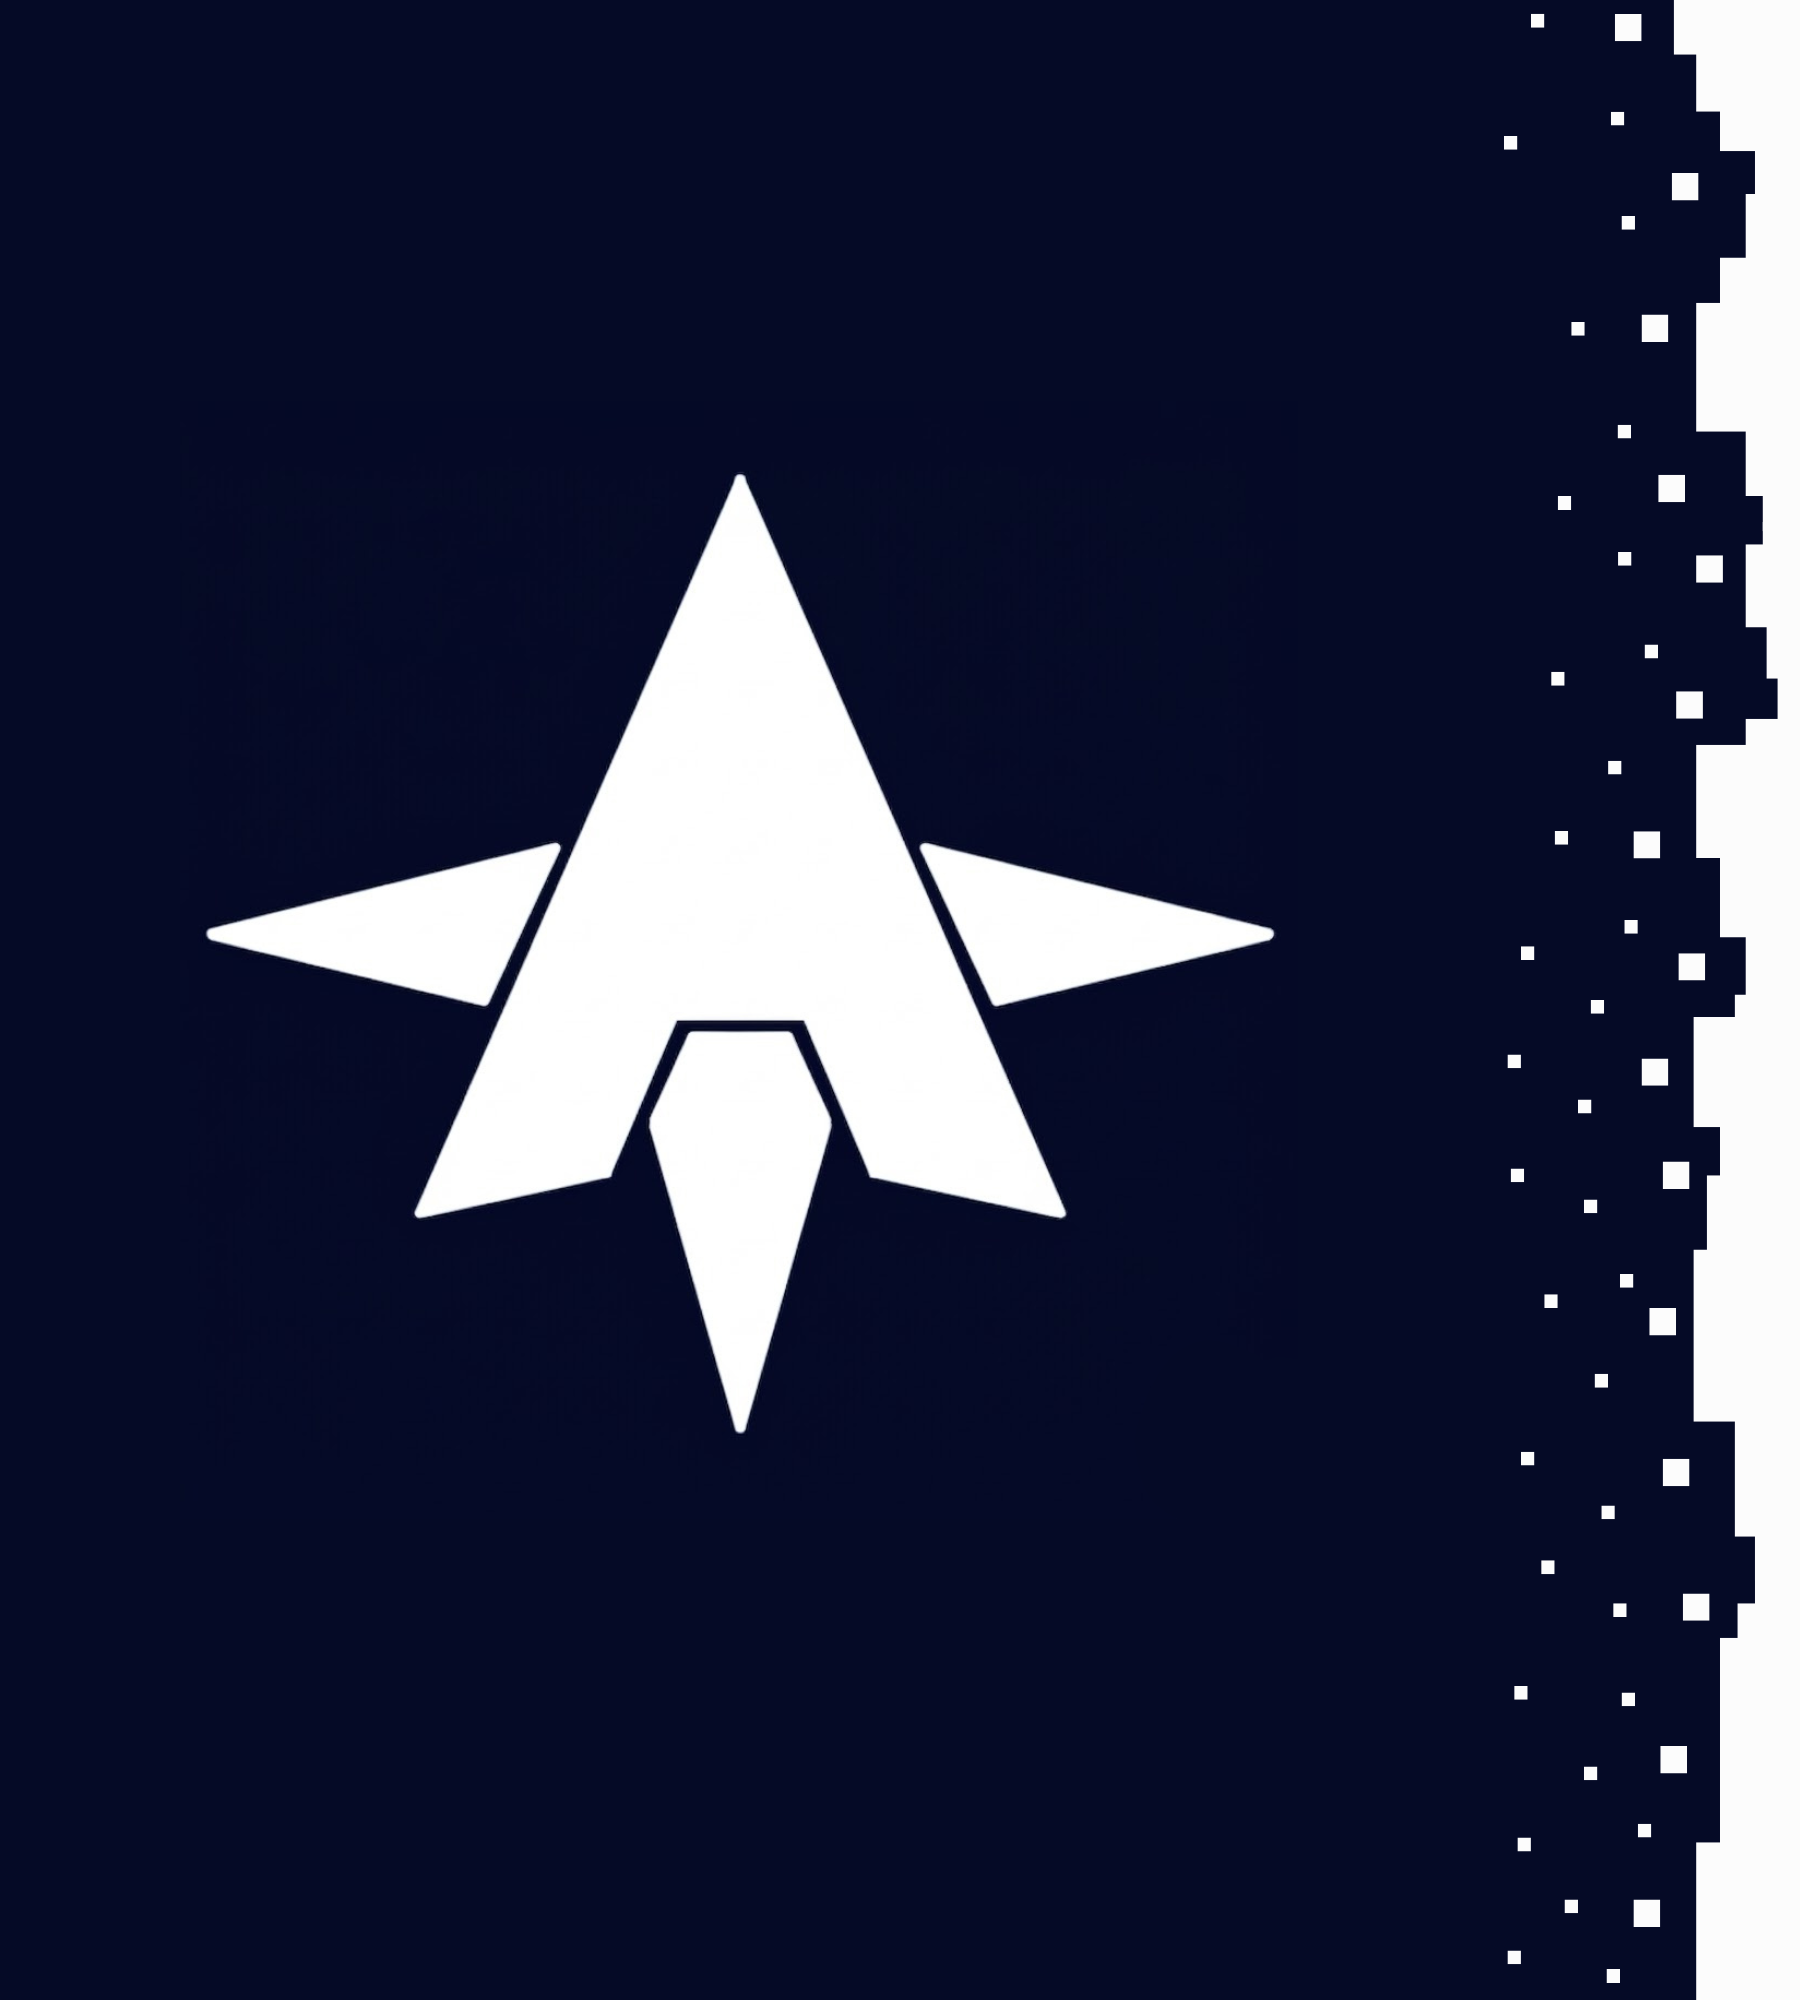
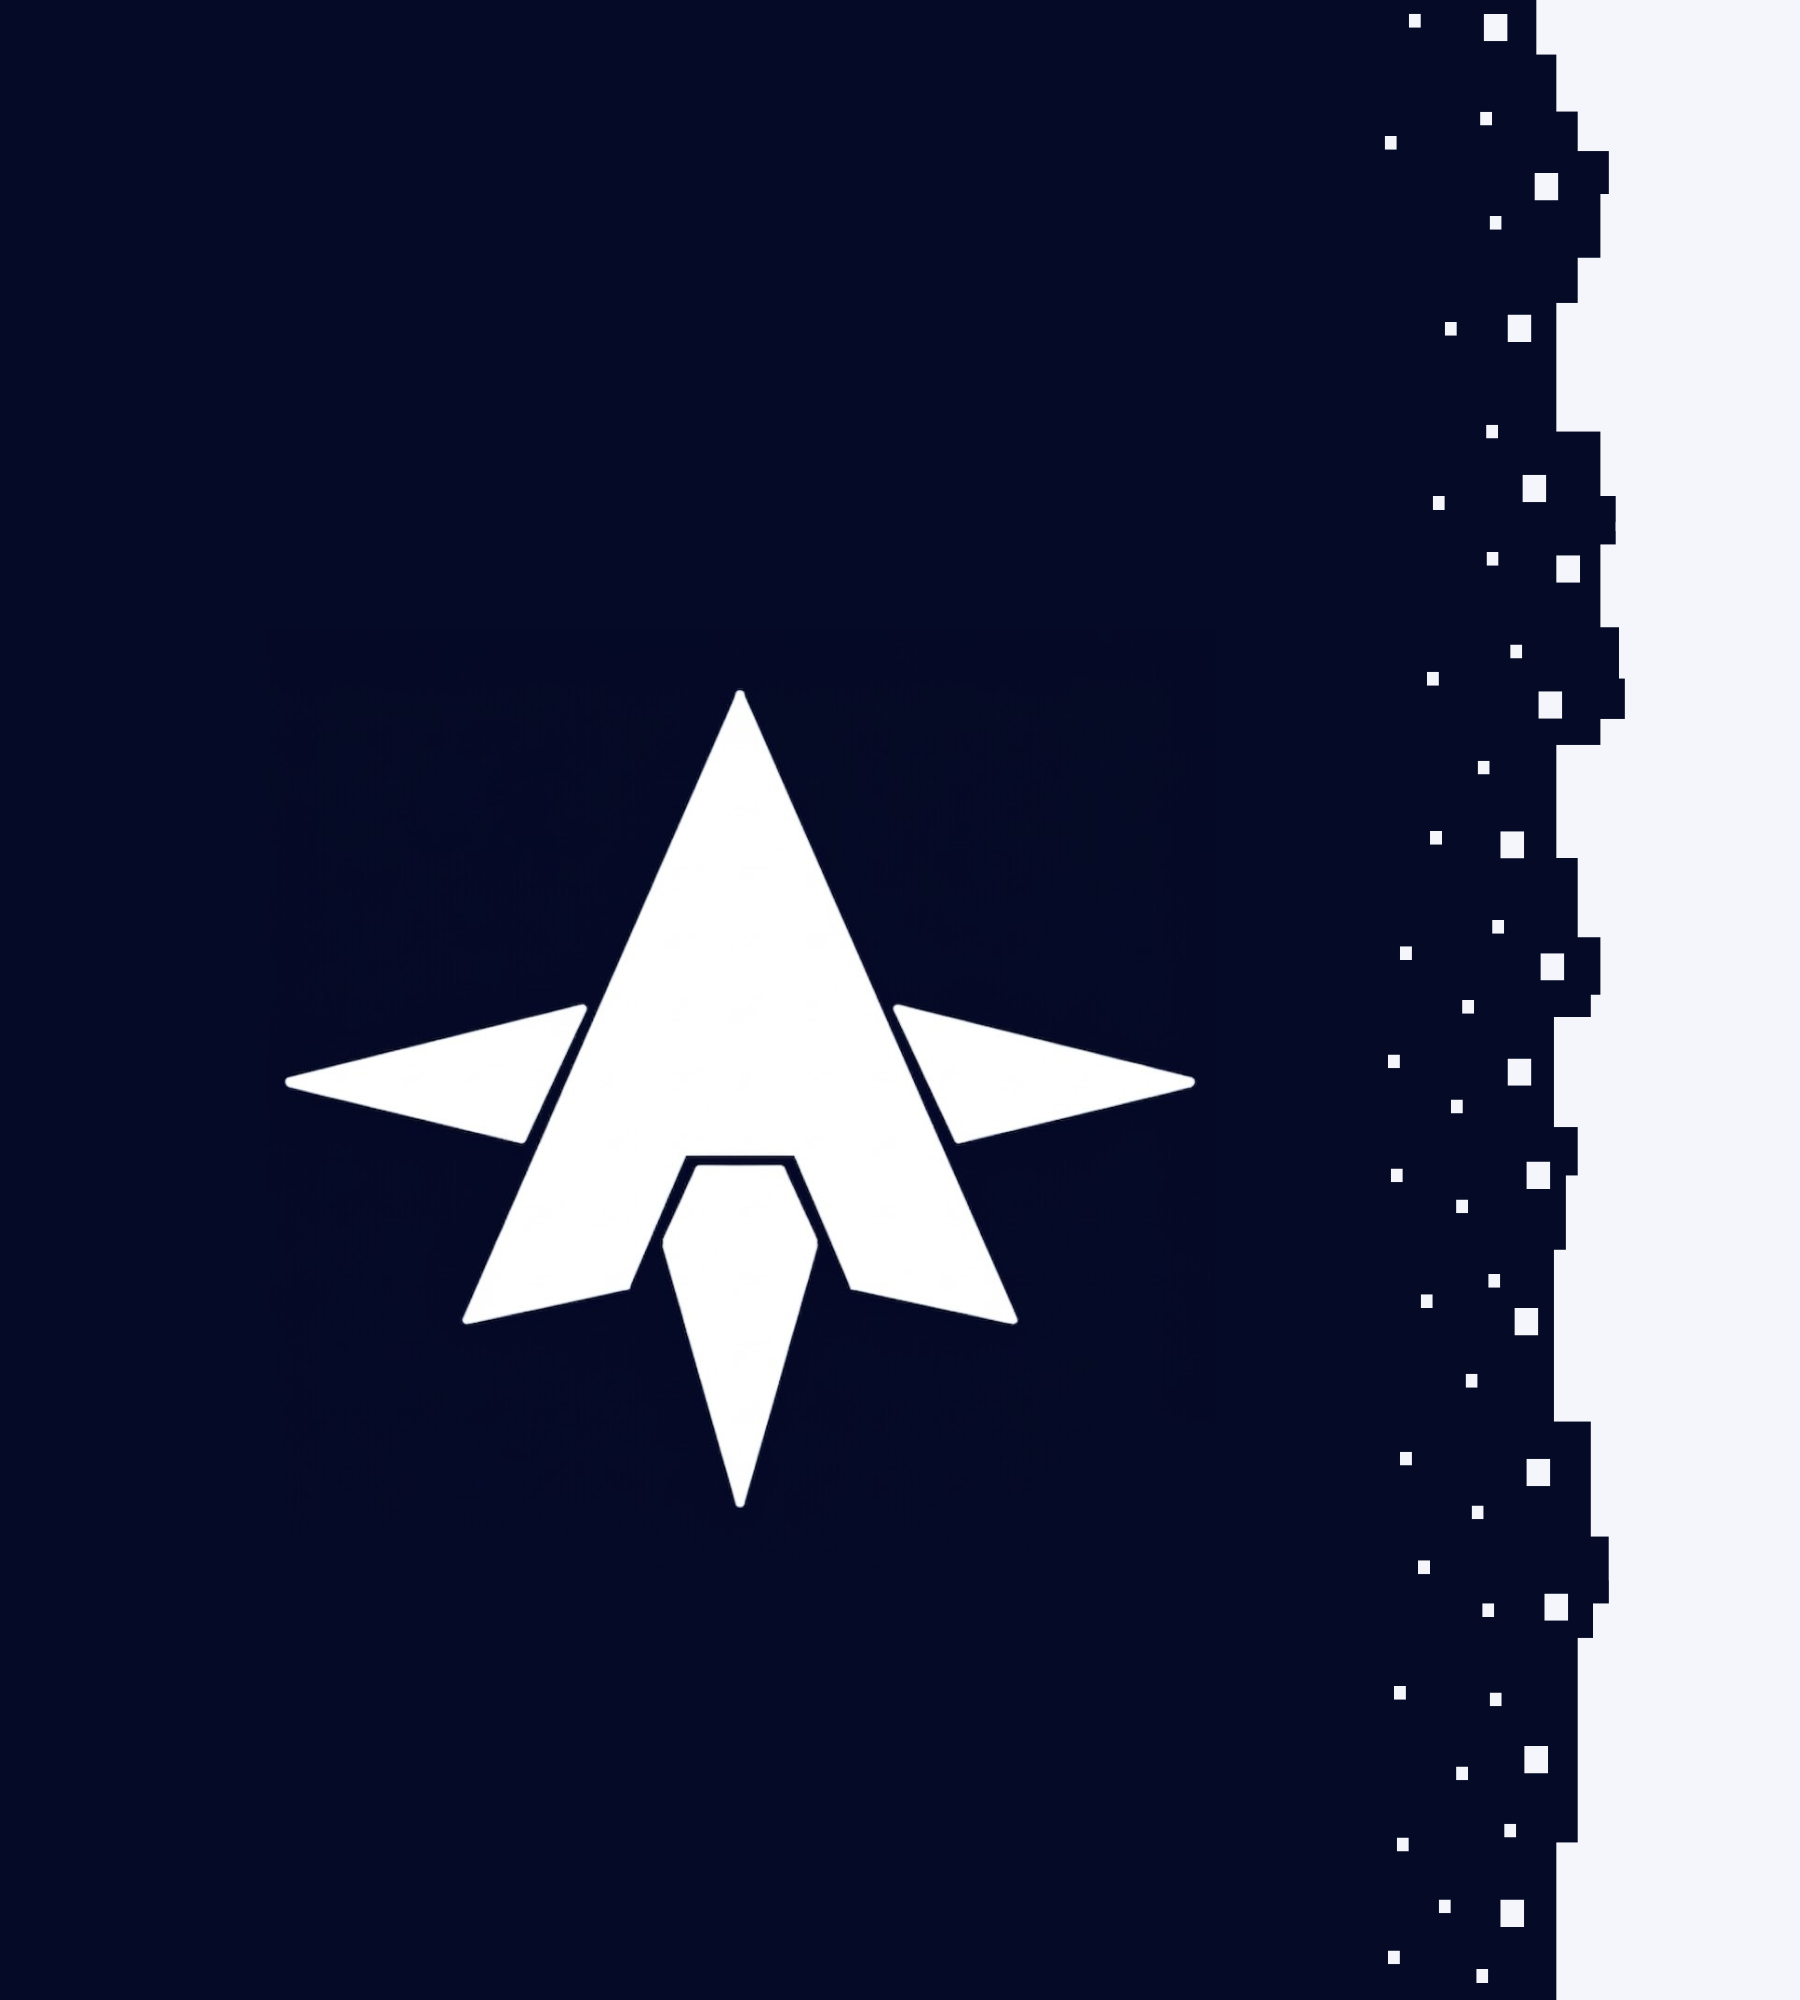
Alterações no css para melhorar a imagem

Changed region(s): [[0.8089, 0.0, 0.9956, 1.0], [0.1244, 0.217, 0.7156, 0.744]]

diff --git a/src/styles/CadastroStartup.css b/src/styles/CadastroStartup.css
@@ -18,16 +18,8 @@
 
 /* ── Side image ── */
 .imagemCadastro {
-  width: 30%;
-  min-width: 200px;
-  height: 100vh;
-  object-fit: cover;
-  object-position: center;
-  position: sticky;
-  top: 0;
-  flex-shrink: 0;
-  display: block;
-  box-shadow: 4px 0 24px rgba(0,0,0,0.08);
+  width: 46%;
+  height: auto;
 }
 
 /* ── Form panel ── */
@@ -36,8 +28,7 @@
   flex-direction: column;
   align-items: center;
   justify-content: center;
-  width: 100%;
-  padding: 20px 24px;
+  width: 50%;
   overflow-y: auto;
   min-height: 100vh;
 }
@@ -270,6 +261,7 @@
 
   .cadastroForms {
     padding: 60px 16px 28px;
+    width: 100%;
     justify-content: flex-start;
   }
 

diff --git a/src/styles/CadastroFuncionario.css b/src/styles/CadastroFuncionario.css
@@ -1,9 +1,5 @@
 /* CadastroFuncionario — herda layout de CadastroStartup.css */
 
-.imagemCadastro {
-    width: 34%;
-}
-
 #cadastroFuncForms {
     display: flex;
     flex-direction: column;
